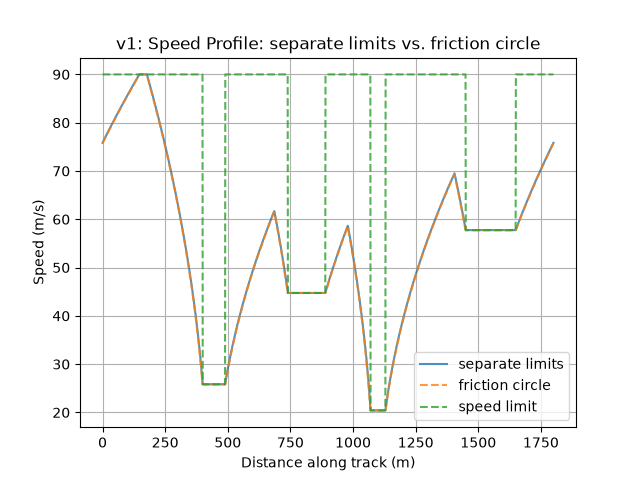
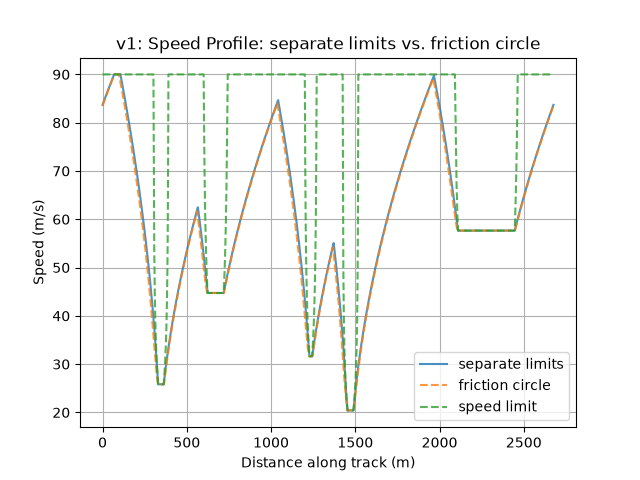
Update README and results for the new circuit
New lap times and compare.py results on the new circuit.

Add an outputs section (slip angles, steering angle, GG diagram) and
update the v2 description, limitations and roadmap.

diff --git a/V2/Compare.py b/V2/Compare.py
@@ -19,7 +19,7 @@ from Solver import solve
 
 ds = 1.0
 s, kappa = build_track(sample_circuit, ds)
-corner = (s >= 400) & (s <= 490)    # the 40 m-radius corner
+corner = (s >= 300) & (s <= 393)    # the 40 m-radius corner
 
 runs = {
     "v2 (full model)": Vehicle(),

diff --git a/README.md b/README.md
@@ -1,10 +1,10 @@
 # Lap Time Simulator
-
+ 
 A Python-based vehicle lap time simulator built from first principles, applying
 vehicle dynamics to model velocity, acceleration, braking, and cornering performance.
-
+ 
 ## Overview
-
+ 
 This project simulates a vehicle's speed around a track by combining:
 - A free-body derivation of a vehicle's traction, braking, and cornering limits
 - A point-mass vehicle model with a combined friction-circle tyre constraint
@@ -12,21 +12,20 @@ This project simulates a vehicle's speed around a track by combining:
   and load-sensitive tyres
 - A forward/backward speed-profile solver to compute a physically achievable
   speed trace and resulting lap time
-- The effects of downforce, drag, and rolling resistance.
-
+- The effects of downforce, drag, and rolling resistance
+- Magic Formula outputs: the slip angles and steering angle along the lap.
 The project is developed in versions, each kept in its own folder so the
 progression can be followed.
-
+ 
 ## Versions
-
+ 
 ### v1 - Point-mass model with friction circle
-- Track built from straight and corner segments, split into 1 m steps, each with its curvature (1/radius, zero on straights)
+- Track built from straight, corner and transition segments, split into 1 m steps, each with its curvature (1/radius, zero on straights). In a transition (clothoid), the curvature changes linearly between the two segments it joins
 - Corner speed limit from the tyre grip: v = √(μg/κ), capped at a fixed top speed
 - Forward pass (acceleration) and backward pass (braking), combined by taking the lower speed at each point
 - Two models compared:
   - Separate limits: fixed maximum acceleration, braking and cornering, each treated independently
   - Friction circle: acceleration, braking and cornering share the same tyre grip, so the car cannot brake or accelerate fully while cornering
-
 ### v1.5 - Powertrain and aerodynamic forces
 - Engine limit: constant maximum drive force below the motor's base speed, constant power above it (F = P/v)
 - Aerodynamic drag, downforce and rolling resistance
@@ -34,79 +33,93 @@ progression can be followed.
 - Top speed computed from the power–drag balance instead of a fixed cap
 - Lap time calculated using the average speed over each segment
 - Vehicle parameters grouped in a `Vehicle` dataclass
-
 ### v2 - Bicycle model with load-sensitive tyres
 - Steady-state bicycle model: the lateral force each axle must produce is set by the cornering acceleration and the CG position (Fyf = m·ay·b/L, Fyr = m·ay·a/L), so the car is limited by whichever axle saturates first
-- Axle loads come from the static weight distribution, the downforce split by the aero balance, and longitudinal load transfer (m·ax·h/L)
+- Axle loads come from the static weight distribution, the downforce split by the aero balance, and longitudinal load transfer ((m·ax + drag)·h/L: drag acts at the CG height, so it also moves load to the rear)
 - Load-sensitive tyres: the friction coefficient μ decreases linearly with tyre load
 - Per-axle friction ellipse: each axle shares its grip between cornering and braking or accelerating
 - Rear-wheel drive, and braking split between the axles by the brake bias
 - Front axle check under acceleration: accelerating unloads the front, which still has to hold its share of the cornering force
-- Corner speed limits found numerically with Brent's method: with load sensitivity, the equation can no longer be solved with a formula
+- Corner speed limits found numerically with Brent's method: with load sensitivity, the equation can no longer be solved with a formula. At steady speed the rear tyres must also push against drag and rolling resistance, so their cornering grip is reduced with the friction ellipse
 - Load transfer and grip depend on each other: the acceleration moves load between the axles, which changes the grip, which changes the maximum acceleration. Under acceleration this is solved by fixed-point iteration (started from the engine limit); under braking by bisection, because the fixed-point iteration sometimes does not converge there
+- Outputs (`Outputs.py`): a lateral Magic Formula tyre model, with its peak equal to the axle's grip limit (D = μ·Fz), is inverted to find the slip angle each axle needs to produce its lateral force. The steering angle follows from the steady-state bicycle model: δ = L·κ + αf − αr
 
 ## Results
-
-Sample circuit: 1800 m, flying lap (All lap times are for a flying lap: the start speed is found so that the car crosses the line at the same speed it started with.):
-
+ 
+Sample circuit: a closed 2676 m lap with five corners (radii 40, 120, 60, 25 and 199.3 m; the 60 m corner turns right), each with a 30 m clothoid transition before and after it. All lap times are for a flying lap: the start speed is found so that the car crosses the line at the same speed it started with.
+ 
 | Model | Lap time |
 |---|---|
-| v1 - separate limits | 37.72 s |
-| v1 - friction circle | 37.86 s |
-| v1.5 | 41.53 s |
-| v2 | 41.84 s |
-
+| v1 - separate limits | [49.50] s |
+| v1 - friction circle | [50.33] s |
+| v1.5 | 57.20 s |
+| v2 | 57.69 s |
+ 
 ![Speed trace v1](v1_results.png)
 ![Speed trace v1.5](v1.5_results.png)
 ![Speed trace v2](v2_results.png)
-
+ 
 In v1 the car accelerates at a constant rate. In v1.5 the acceleration drops as speed rises, because above the motor's base speed the drive force falls as P/v while drag grows with v², so the speed levels off towards a top speed set by power and drag rather than by a fixed cap.
-
+ 
 The car can also brake later in v1.5, since drag helps slow it down and downforce adds grip at high speed.
-
-Downforce raises the corner speeds since it increases the normal force and in consequence, the maximum grip, and because it grows with v², the gain is much bigger in fast corners than in slow ones. As a result, in the second turn, the car stays below its cornering limit, so it is limited by power rather than grip. In the last turn, the grip limit allows a speed even higher than the car's top speed, so the corner doesn't limit the car at all.
-
-From v1.5 to v2, the straights and fast corners are almost unchanged, since both versions use the same power, drag and downforce. Most of the difference comes from the two slow corners, where v2's corner speeds are lower, so the car brakes earlier and accelerates out from a lower speed. Three effects are new in v2. First, each axle has its own grip limit instead of the grip being pooled for the whole car, so the car is limited by whichever axle saturates first. Second, longitudinal load transfer: accelerating moves load to the rear axle and braking moves it to the front. Third, tyre friction now decreases with load.
-
-To measure each effect, `compare.py` turns them off and reruns the lap (the v1.5 row comes from `v1.5/main.py`):
-
-| Run | Lap time | R40 corner limit (40 m radius). |
+ 
+Downforce raises the corner speeds since it increases the normal force and in consequence, the maximum grip, and because it grows with v², the gain is much bigger in fast corners than in slow ones. As a result, in the two fast corners (120 m and 199.3 m), the grip limit allows a speed even higher than the car's top speed, so these corners don't limit the car at all: it is limited by power there.
+ 
+From v1.5 to v2, the straights and fast corners are almost unchanged, since both versions use the same power, drag and downforce. Most of the difference comes from the three slow corners, where v2's corner speeds are lower, so the car brakes earlier and accelerates out from a lower speed. Three effects are new in v2. First, each axle has its own grip limit instead of the grip being pooled for the whole car, so the car is limited by whichever axle saturates first. Second, longitudinal load transfer: accelerating moves load to the rear axle and braking moves it to the front, and drag, acting at the CG height, also moves load to the rear. Third, tyre friction now decreases with load.
+ 
+To measure each effect, `compare.py` turns them off and reruns the lap (the v1.5 row comes from `v1.5/main.py`).
+ 
+**Previous results** (first sample circuit: 1800 m, corners with no transitions, drag not included in load transfer): load sensitivity lowered the R40 limit far more than the axle split did (28.05 → 27.37 m/s, against 28.12 → 28.05 m/s), turning off load transfer made the lap 0.23 s slower, and setting the brake bias to 43 % brought the axle split only run back to almost the v1.5 lap time (41.55 s vs 41.53 s), so the time it lost came from the brake bias.
+ 
+**Current results** (closed 2676 m circuit with clothoid transitions; drag included in both the corner speed limit and the load transfer):
+ 
+| Run | Lap time | R40 corner limit (40 m radius) |
 |---|---|---|
-| v1.5 | 41.53 s | 28.12 m/s |
-| v2 | 41.84 s | 27.37 m/s |
-| v2, no load transfer (h = 0) | 42.07 s | 27.37 m/s |
-| v2, no load sensitivity (k_load = 0) | 41.59 s | 28.05 m/s |
-| v2, axle split only (h = 0, k_load = 0) | 41.79 s | 28.05 m/s |
-| v2, axle split only, brake bias 43 % | 41.55 s | 28.05 m/s |
-
-- **Axle split:** it costs almost no cornering speed (28.12 → 28.05 m/s), because the aero balance (42 % front) is close to the static weight distribution (43 % front). But on its own it makes the lap 0.26 s slower, and this time is lost under braking: the brake bias sends 58 % of the braking to the front, while without load transfer the front only carries 43 % of the weight, so the front tyres reach their limit first.  With the brake bias set to 43 %, equal to the front axle's share of the weight, the lap drops back to 41.55 s, almost the v1.5 time: the axle split itself costs almost nothing, the time comes from the brake bias not matching the axle loads.
-- **Load transfer:** it does not change the corner limits, since the car is not accelerating at the apex, but it makes the car faster under braking and acceleration: under braking it loads the front axle, which takes 58 % of the braking, and under acceleration it loads the driven rear axle. Adding it to the axle split gains 0.20 s, and removing it from v2 costs 0.23 s.
-- **Load sensitivity:** the more heavily loaded rear tyres have a lower friction coefficient than the fronts, and since the car is limited by the weaker axle, this lowers the cornering limit of the whole car (28.05 → 27.37 m/s), costing 0.24 s. It costs much more cornering speed than the axle split, and is the reason v2's corner speeds are lower.
-
-
+| v1.5 | 57.20 s | 28.12 m/s |
+| v2 | 57.69 s | 27.45 m/s |
+| v2, no load transfer (h = 0) | 57.92 s | 27.32 m/s |
+| v2, no load sensitivity (k_load = 0) | 57.52 s | 27.81 m/s |
+| v2, axle split only (h = 0, k_load = 0) | 57.56 s | 28.05 m/s |
+| v2, axle split only, brake bias 43 % | 57.33 s | 28.05 m/s |
+ 
+- **Load sensitivity:** it lowers the R40 limit far more than the axle split does (by 0.36–0.73 m/s, against 0.07 m/s), and turning it off makes the lap 0.17 s faster.
+- **Load transfer:** turning it off makes the full model 0.23 s slower.
+- **Brake bias:** setting the brake bias to 43 % (the front axle's share of the weight) recovers most of the time lost by the axle split (57.56 → 57.33 s), but not all of it (v1.5: 57.20 s). A likely reason is that the car now brakes while turning into the corners, and a single fixed brake bias can't suit both straight-line braking and braking while cornering.
+- **Drag and load transfer interact:** drag now moves load to the rear even at constant speed, so load transfer also changes the corner limits. In the full model the rear limits (it is the most loaded axle, so it has the lowest friction coefficient), and the extra rear load raises the R40 limit (27.32 → 27.45 m/s). Without load sensitivity the front limits, and the same load shift lowers it (28.05 → 27.81 m/s). That is why turning off load transfer only costs 0.04 s when load sensitivity is off.
+## Outputs
+ 
+![Slip angles and steering angle](v2_results.png)
+![GG diagram](v2_gg_diagram.png)
+ 
+`Outputs.py` finds, at each point of the lap, the slip angle each axle needs to produce its lateral force, by inverting the lateral Magic Formula with Brent's method between zero and the peak slip angle. The slip angles are signed, so the right-hand corner gives negative angles. The steering angle then follows from δ = L·κ + αf − αr: the geometric steer plus the difference between the front and rear slip angles.
+ 
+- **Balance:** in the slow corners the rear slip angle is larger than the front one, so the car needs less steering than L·κ: it oversteers. The rear is the more heavily loaded axle, so with load sensitivity it has the lower friction coefficient. In the fast corners the front slip angle is slightly larger: drag moves load to the rear and the downforce is slightly more rearward than the weight distribution (58 % against 57 %), so the car understeers slightly at high speed.
+- **Corner exits:** at the start of each exit the front slip angle briefly reaches its peak. The car starts accelerating while still turning, accelerating unloads the front, and the front axle check limits the acceleration so that the front is exactly at its grip limit (power understeer).
+- **GG diagram:** braking on the straights reaches about −2.8 g at high speed. In the entry transitions the points follow the friction ellipse from braking to cornering (trail braking), and on the exits from cornering to acceleration, where the top of the envelope is flat because the car is power-limited. The envelope grows with speed because of the downforce.
 ## Limitations
-
+ 
 - v1 and v1.5 are point-mass models: no yaw dynamics, steering, tyre slip angles or load transfer
 - v2 is quasi-steady-state: the car is assumed to be in steady cornering at each point, so yaw transients (corner entry and exit) are ignored, which makes lap times slightly optimistic
 - The bicycle model lumps each axle into a single tyre, so lateral load transfer is not modelled
 - Linear load sensitivity law, with the same μ in the lateral and longitudinal directions
 - Combined slip uses a friction ellipse per axle rather than the Magic Formula combined-slip functions
-- Drag acts at the CG height in the load transfer, so its pitching moment is ignored; aero balance is constant with speed
+- The outputs are lateral only: they don't reduce the lateral grip when the tyre is also braking or accelerating, and the peak slip angle doesn't change with load
+- Aero balance is constant with speed
+- The sample circuit is defined by its curvature only, not by real x-y coordinates
 - Vehicle parameters are placeholders, not a specific real car
-
 ## Roadmap
-
+ 
 - [x] v1: Point-mass simulator with friction-circle tyre model and forward/backward speed-profile solver
 - [x] v1.5: Power-limited traction (constant-force and constant-power regions)
 - [x] v1.5: Aerodynamic drag, downforce and rolling resistance
 - [x] v2: Bicycle model with per-axle grip, longitudinal load transfer and load-sensitive tyres
-- [ ] v2: Magic Formula outputs: slip angles, steering angle and body slip along the lap
+- [x] v2: Magic Formula outputs: slip angles and steering angle along the lap
 - [ ] Lateral load transfer, with front/rear roll stiffness distribution
-- [ ] Real circuits imported from centreline coordinates (CSV), with curvature computed from x-y data
+- [ ] Real circuits imported from centreline coordinates, with curvature computed from x-y data
 - [ ] Validation against real track lap time data
 - [ ] Suspension effects
 ## Project structure
-
+ 
 v1/
 track.py - track definition and curvature calculation
 vehicle.py - vehicle parameters, tyre limits, and forward/backward solver
@@ -118,14 +131,15 @@ solver.py - corner limits, forward/backward passes and lap time
 main.py - runs a full simulation and plots the results
 V2/
 Track.py - track definition and curvature calculation
-Vehicle.py - Vehicle dataclass: axle loads, load-sensitive tyres and per-axle grip limits
+Vehicle.py - Vehicle dataclass: axle loads, load-sensitive tyres, per-axle grip limits and the lateral Magic Formula
 Solver.py - corner limits, forward/backward passes with load transfer, flying lap and lap time
-Main.py - runs a full simulation and plots the results
+Outputs.py - slip angles and steering angle along the lap
+Main.py - runs a full simulation and plots the results, outputs and GG diagram
 Compare.py - turns off load transfer and load sensitivity one at a time to measure their effect
-
-
+ 
+ 
 ## Running it
-
+ 
 ```bash
 git clone https://github.com/charly-james/lap-time-simulator.git
 cd lap-time-simulator
